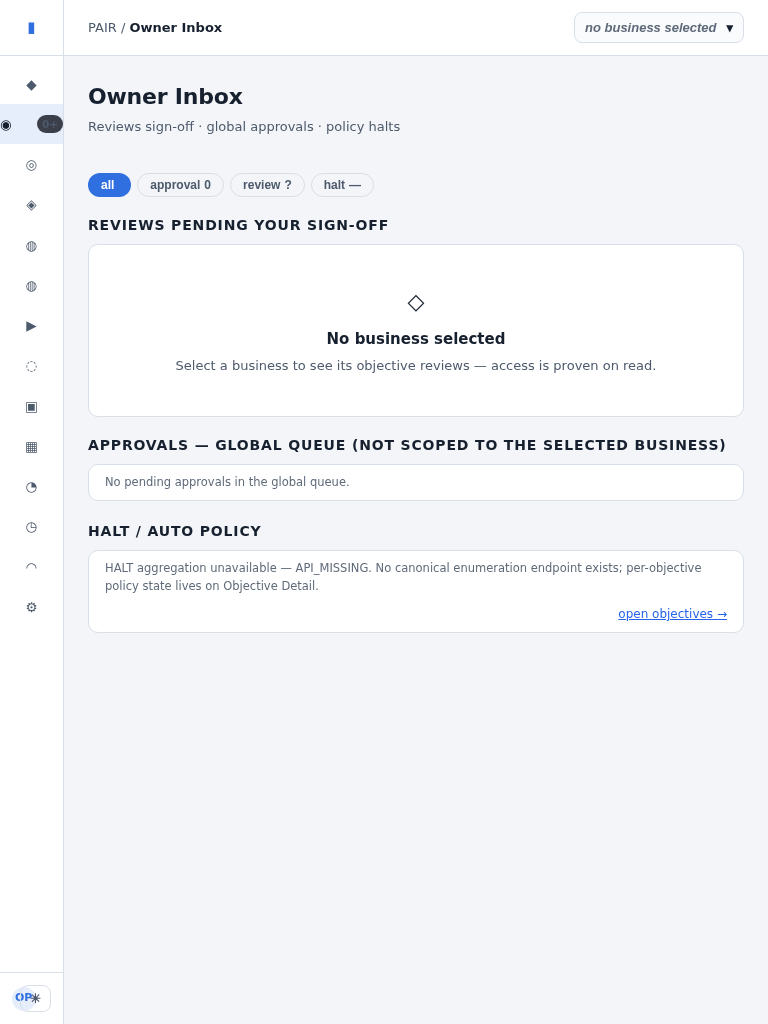
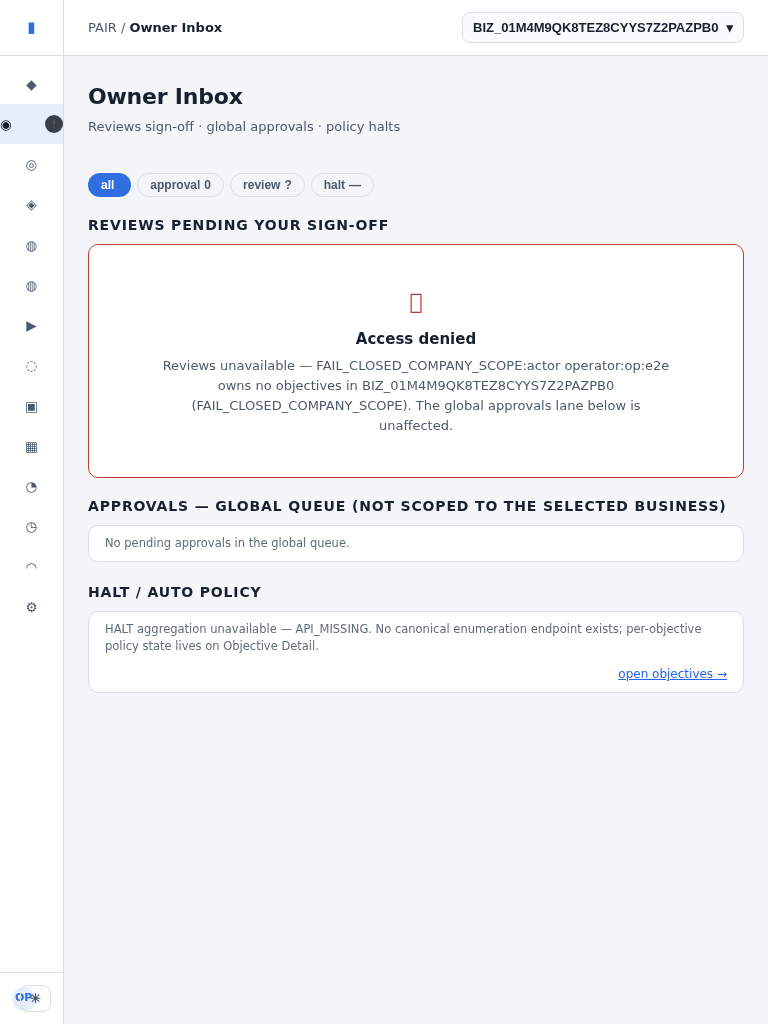
P15.9-B6 R2: screenshot evidence closure — runtime-verified isolated fixture
- b6-shots.mjs: FIXTURE_BIZ serialized into addInitScript (R1 free-var bug);
  script self-spawns server on fresh mkdtemp PAIR_MC_DIR + synthetic token;
  asserts empty env, localStorage, business render; nav errors abort
- 16 PNGs regenerated with per-capture assertions passing
- verification-report + visual doc + matrix reconciled (C1-C7 preserved)

diff --git a/docs/P15_9_B6/verification-report.md b/docs/P15_9_B6/verification-report.md
@@ -7,8 +7,8 @@ BASE `7791800cc764974d659f335d1e0e569a97106411` · branch `devin/1791681135-p15-
 - `apps/mission-control-ui/src/main.tsx` — dormant opt-in legacy→/app redirect (`OptInRedirect`, `pair.legacy_redirect` flag, 9 route mappings, dynamic-id + query/hash preservation).
 - `apps/mission-control-ui/src/app/routes.tsx` — `/app` index now `Navigate` → `/app/company` (stale "lands in B2" placeholder removed).
 - `apps/mission-control-ui/e2e/b6-acceptance.spec.ts` — new, 7 tests.
-- `apps/mission-control-ui/scripts/b6-shots.mjs` — screenshot generator (regenerated on isolated fixture env; provenance documented in-source).
-- `docs/P15_9_B6/` — 8 deliverable documents (R1 revisions: per-pane read audit, SSE token-in-query correction, screenshot provenance/labels, vitest baseline evidence, updated gates).
+- `apps/mission-control-ui/scripts/b6-shots.mjs` — screenshot generator (R2 rewrite: self-spawns the fixture server on a fresh mkdtemp `PAIR_MC_DIR` with synthetic `PAIR_MC_TOKEN=b6-fixture-token`; asserts empty env → canonical business create → `localStorage` + business-render assertions before every capture; navigation errors abort, never suppressed).
+- `docs/P15_9_B6/` — 8 deliverable documents (R1 revisions: per-pane read audit, SSE token-in-query correction, screenshot provenance/labels, vitest baseline evidence, updated gates; R2 revision: verified-screenshot provenance).
 - `.pair-verification/patch-claim.json` — B6 claim.
 
 Zero backend/schema/dependency changes. No merge, no deploy, no cutover activation.
@@ -45,5 +45,5 @@ See `visual-responsive-accessibility.md`. One demonstrable defect found and fixe
 - The no-staticDir UI_HTML serving mode was verified in code only (mandate: do not start another server).
 - Redirect ON-state tested per-test in isolated browser storage only; no real deployment was switched (none exists).
 - axe-core scan deferred to A2 by Owner decision.
-- Screenshots: 16 deterministic captures committed under `docs/P15_9_B6/screenshots/` (light+dark × 1440/1024/768/390 over company, objectives, inbox, missions, system-cost, system-providers, mobile company, mobile chat) via `scripts/b6-shots.mjs`. **Provenance (R1-F3):** regenerated on an explicitly isolated synthetic fixture env — `PAIR_MC_DIR=/tmp/pair-b6-shotenv` (fresh dir), stub replies, template planner, fixture token from `~/pair-mc-token` (local dev credential, masked in UI); one synthetic business `BIZ_01M4M9A65MJ8RG6SX3N78J6Y67` created via canonical POST inside that env. No real operator/business/mission data. Shots prove a subset (8 views × 2 themes); unevidenced interactive states recorded INSUFFICIENT in the a11y/visual doc.
+- Screenshots: 16 deterministic captures committed under `docs/P15_9_B6/screenshots/` (light+dark × 1440/1024/768/390 over company, objectives, inbox, missions, system-cost, system-providers, mobile company, mobile chat) via `scripts/b6-shots.mjs`. **Provenance (R2):** the script spawns its own `serve-mission-control.mjs` — fresh `PAIR_MC_DIR=/tmp/pair-b6-shots-0GNAkb` (mkdtemp per run), `PAIR_MC_PORT=8792`, `PAIR_MC_TOKEN=b6-fixture-token` (synthetic; the real dev credential is never read), stub replies, template planner. Runtime-verified isolation: `GET /api/businesses` asserted EMPTY before seeding (abort otherwise); one synthetic business `BIZ_01M4M9QK8TEZ8CYYS7Z2PAZPB0` (`b6-fixture-demo`) created via canonical POST; every page loads `pair.business_id` via `addInitScript` argument (R1 bug fixed — the id is now serialized into the browser context); **pre-capture assertions**: `localStorage["pair.business_id"]===BIZ`, `main.amain` present, populated shots fail on "No business selected" and require the fixture business in page text; navigation non-OK aborts (no `.catch()` suppression). Execution: `cd apps/mission-control-ui && node scripts/b6-shots.mjs` → all 16 lines `shot … OK`, populated shots tagged `(business rendered)` → `done — all captures verified`. No production credential/business data anywhere. Shots prove a subset (8 views × 2 themes); unevidenced interactive states recorded INSUFFICIENT in the a11y/visual doc.
 - CI: none configured for this repo — verification is the harness + local suites above.

diff --git a/docs/P15_9_B6/visual-responsive-accessibility.md b/docs/P15_9_B6/visual-responsive-accessibility.md
@@ -59,18 +59,20 @@ Evidence: `app.spec.ts` keyboard/a11y tests + B6 manual pass. Existing tooling o
 
 **Unresolved:** no axe-core scan (new dependency not allowed by the mandate); automated contrast is computed, not instrumented — flagged as honest limitation, not claimed as a pass beyond what was verified.
 
-## Screenshot evidence — provenance & labels (B6 R1-F3)
+## Screenshot evidence — provenance & labels (B6 R2)
 
-All 16 PNGs under `screenshots/` were **regenerated** after R1 against an explicitly isolated synthetic fixture env: dedicated `serve-mission-control.mjs` on `:8791` with `PAIR_MC_DIR=/tmp/pair-b6-shotenv` (fresh dir), stub conversation replies, template planner, fixture token from `~/pair-mc-token` (local dev credential — never a production credential, and never visible in any shot since the UI masks it). One synthetic business `BIZ_01M4M9A65MJ8RG6SX3N78J6Y67` ("b6-fixture-demo") was created inside that env via canonical `POST /api/businesses`. No real operator/business/mission data exists in the fixture env. `scripts/b6-shots.mjs` documents this in-source.
+All 16 PNGs under `screenshots/` were **regenerated** at R2 by `scripts/b6-shots.mjs`, which now spawns its **own** `serve-mission-control.mjs` inside the run: fresh `PAIR_MC_DIR` per run (`mkdtemp /tmp/pair-b6-shots-*`), synthetic token `b6-fixture-token` via `PAIR_MC_TOKEN` (the real dev credential is never read — nothing in shots, console, or committed files is a real secret), stub conversation replies, template planner. Isolation is **affirmatively verified at runtime**, not asserted by comments: the script asserts `GET /api/businesses` returns an empty list before seeding (aborts otherwise), creates exactly one synthetic business (`b6-fixture-demo`, id `BIZ_01M4M9QK8TEZ8CYYS7Z2PAZPB0` in the R2 run) via canonical `POST /api/businesses`, serializes it into `addInitScript` as an argument, and **before every capture** asserts `localStorage["pair.business_id"]` equals it; populated shots additionally fail if "No business selected" renders or if the fixture business is absent from the page text. Navigation errors are no longer swallowed — a non-OK response aborts the run.
+
+Runtime log (R2 run): `fixture env: PAIR_MC_DIR=/tmp/pair-b6-shots-0GNAkb PORT=8792 token=synthetic` → `fixture business: BIZ_01M4M9QK8TEZ8CYYS7Z2PAZPB0` → `shot … OK (business rendered)` for all populated shots → `done — all captures verified`.
 
 | Shot (×light/dark) | Viewport | What it proves | State |
 |---|---|---|---|
-| `company-*` | 1440 + 390 | cockpit layout, sidebar/tab bar, KPI chip layout, theme tokens | populated (1 fixture business, empty objectives) |
-| `objectives-*` | 1440 | objective list states + honest empty lane | populated business, empty objectives |
+| `company-*`, `company-mobile-*` | 1440 + 390 | cockpit layout, sidebar/tab bar, KPI chips, theme tokens | **populated, asserted** — fixture business rendered (asserted by script) |
+| `objectives-*` | 1440 | objective list for a selected business with zero objectives — distinctly a selected-empty state, not no-business | **populated business, empty objectives** (asserted: business rendered AND no "No business selected") |
 | `inbox-*` | 768 | tablet layout, lanes, badge | empty inbox lanes |
 | `missions-*` | 1440 | mission list + global-unfiltered label | empty mission table |
 | `system-cost-*` | 1024 | tablet cost page, policy/profile tables | empty canonical tables |
-| `system-providers-*` | 1440 | catalogs + gate labels | populated provider catalog from fixture env |
+| `system-providers-*` | 1440 | catalogs + gate labels | provider catalog from fixture env |
 | `chat-mobile-*` | 390 | mobile chat layout, composer reachability | empty conversation list |
 
 **Scope of proof:** these 8 views × 2 themes are a **subset**, not all routes and not all interactive states — deep-link coverage of all 15 routes is proven by `b6-acceptance.spec.ts` (executable), and interactive states by the B5.x suites. Visual states NOT evidenced by screenshots (dialogs, confirmations, error panels, populated-with-data tables, hover/focus rings) remain covered only by tests — recorded as **INSUFFICIENT** static-visual evidence rather than claimed.

diff --git a/docs/P15_9_B6/final-acceptance-matrix.md b/docs/P15_9_B6/final-acceptance-matrix.md
@@ -18,10 +18,10 @@ BASE `7791800cc764974d659f335d1e0e569a97106411` → HEAD (see verification-repor
 | G-rollback | documented procedure | `rollback-plan.md` | doc review; Level-1 proven by e2e | **PASS** (documentation deliverable; execution deferred to real cutover) |
 | G-docs | 8 deliverables present, observed-behavior-only | `docs/P15_9_B6/*` | file inventory | **PASS** |
 | G-verification | harness READY + real counts | `verification-report.md` | `verify:change --base 7791800` | **PASS** — READY_FOR_INDEPENDENT_AUDIT |
-| G-screenshot-evidence | deterministic sanitized captures with provenance | `visual-responsive-accessibility.md` screenshot section | regenerated on isolated fixture env `/tmp/pair-b6-shotenv`; labeled per-shot | **PASS (subset)** — 8 views × 2 themes proven; unevidenced interactive states recorded INSUFFICIENT, not claimed |
+| G-screenshot-evidence | deterministic sanitized captures with runtime-verified provenance | `visual-responsive-accessibility.md` screenshot section + `verification-report.md` | R2: `b6-shots.mjs` self-spawns the fixture server (fresh mkdtemp `PAIR_MC_DIR`, synthetic `PAIR_MC_TOKEN`), asserts empty env + `localStorage` + business-render before every capture; nav errors abort | **PASS (subset)** — 8 views × 2 themes verified captures; unevidenced interactive states recorded INSUFFICIENT, not claimed |
 | G-owner-signoff | Owner approves intentional differences | — | Owner decision | **INSUFFICIENT** — by design awaiting Owner (C1 in cutover-preparation) |
 | G-axe-scan | automated a11y scanner run | — | not run | **N/A** — new dependency out of B6 scope; flagged for A2 |
 
 **Verdict definitions**: GO = all gates PASS, no conditions. CONDITIONAL = gates pass with documented Owner-decision conditions. NO-GO = any FAIL or unresolvable INSUFFICIENT.
 
-**Verdict: CONDITIONAL** — G-parity and G-vitest carry honest CONDITIONAL verdicts (4 unported technical panes needing Owner decision; 3 pre-existing environment test failures proven identical on BASE); G-owner-signoff awaits Owner by design; G-axe-scan N/A. No FAIL gate: conditions C1–C5 in `cutover-preparation.md` §H3 are decisions/evidence items, not code defects.
+**Verdict: CONDITIONAL** — G-parity and G-vitest carry honest CONDITIONAL verdicts (4 unported technical panes needing Owner decision; 3 pre-existing environment test failures proven identical on BASE); G-owner-signoff awaits Owner by design; G-axe-scan N/A. No FAIL gate: conditions C1–C7 in `cutover-preparation.md` §H3 are decisions/evidence items, not code defects.
